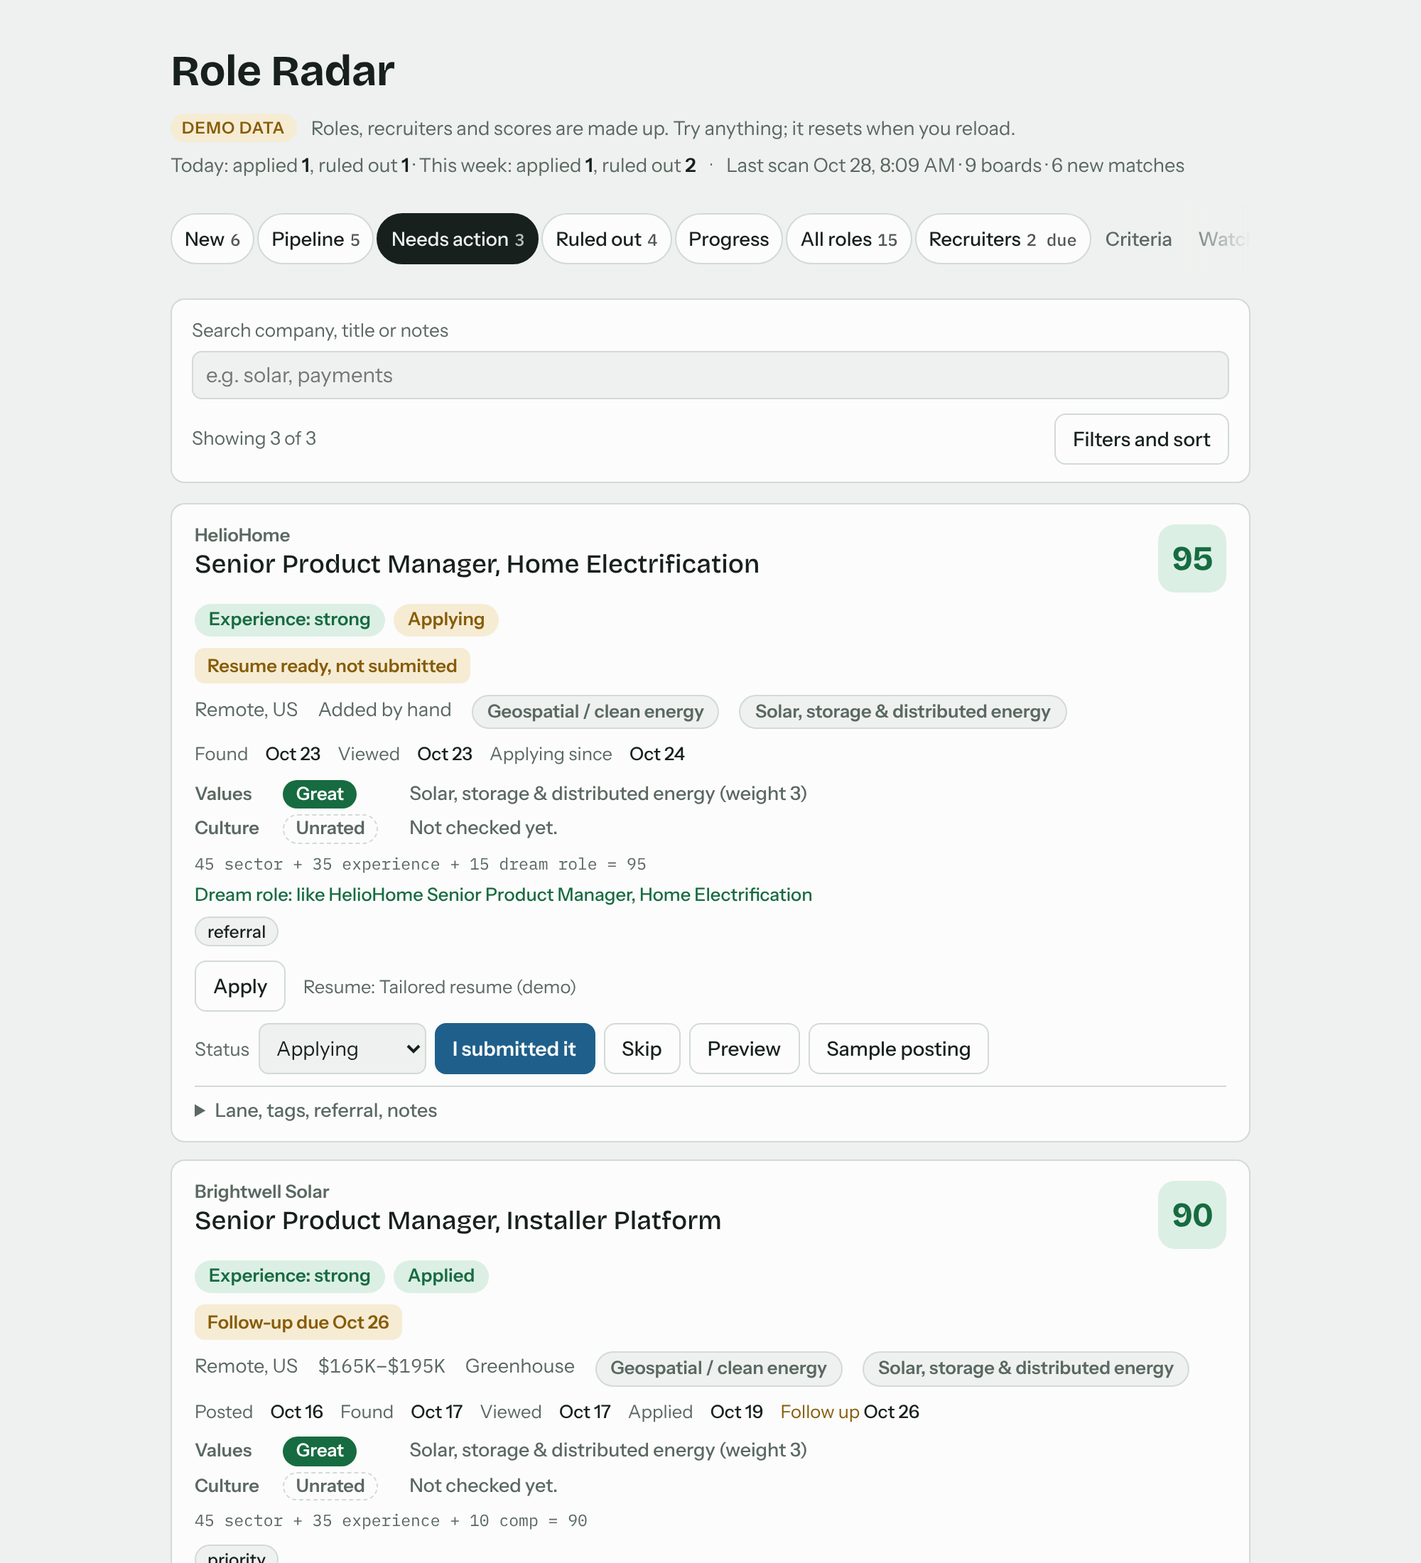
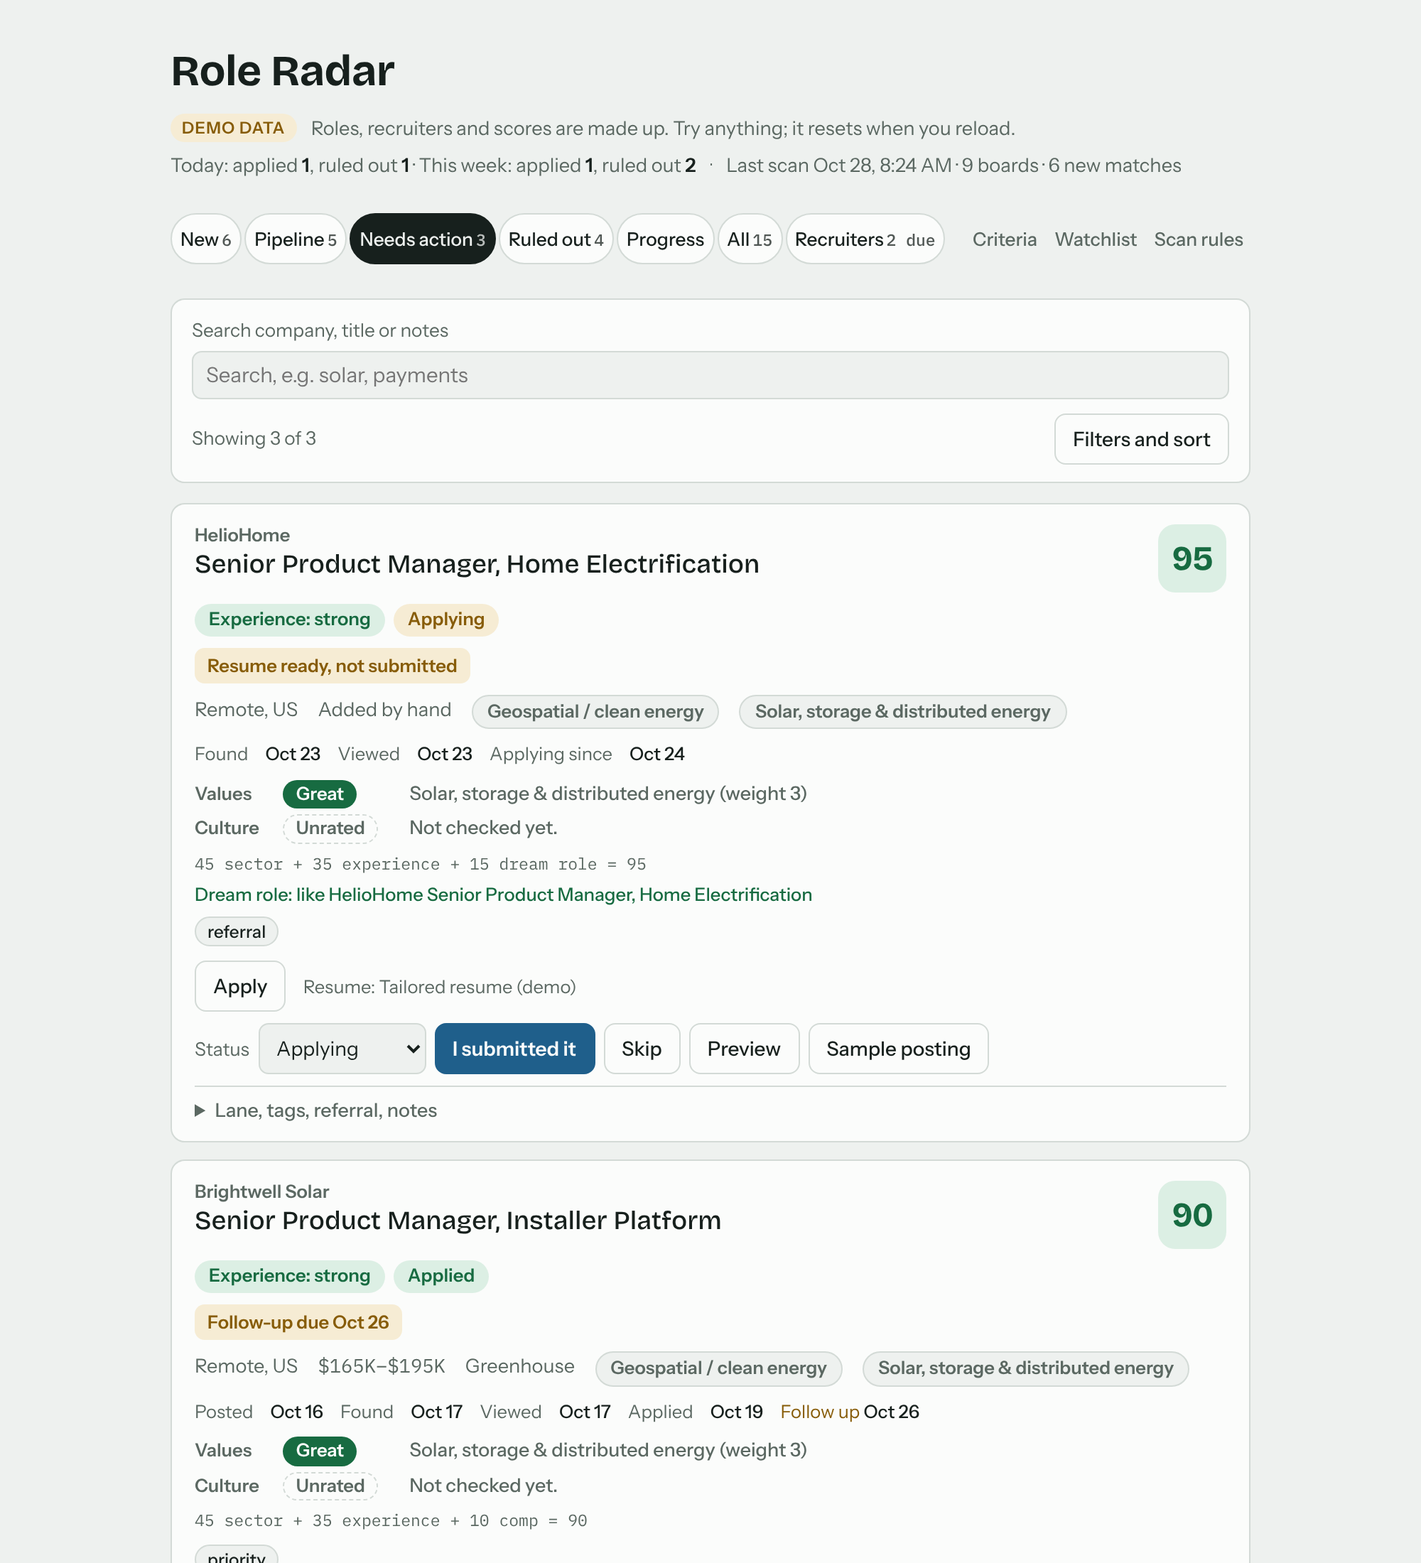
UI round RR-UX7: private tabs fit, phone hero shorter, Pipeline row on one line, digest 'Top N of M'
Red first (RR-UX7-0..3 in tests/ui-polish.test.mjs), 290 tests green 3x.

Claude-Session: https://claude.ai/code/session_01S2xZTupe2qe2vZrkJ8z2XQ

diff --git a/app/role-radar.html b/app/role-radar.html
@@ -40,11 +40,12 @@ h1{font-family:var(--f-display);font-weight:700;font-size:1.9rem;letter-spacing:
 #tabs button[aria-selected="true"]{background:var(--ink);color:var(--bg);border-color:var(--ink)}
 #tabs .n{font-family:var(--f-mono);font-size:.78rem;opacity:.75}
 /* Wide screens: every tab fits in one row with no sideways scroll (RR-UX6-1). Settings sit as a quieter group on the right. */
-@media (min-width:900px){#tabs{gap:2px}#tabs button{padding:0 9px;font-size:.85rem;gap:4px}#tabs .n{font-size:.74rem}
-  #tabs button.set{background:none;border-color:transparent;color:var(--muted);padding:0 7px}
+@media (min-width:900px){#tabs{gap:2px}#tabs button{padding:0 6px;font-size:.82rem;gap:2px}#tabs .n{font-size:.72rem}
+  #tabs button.set{background:none;border-color:transparent;color:var(--muted);padding:0 4px}
   #tabs button.set:hover{color:var(--ink);border-color:var(--line)}
   #tabs button.set[aria-selected="true"]{background:var(--ink);color:var(--bg);border-color:var(--ink)}
-  #tabs button.set1{margin-left:auto}}
+  #tabs button.set1{margin-left:auto}
+  #tab-watch .n{display:none} /* RR-UX7-0: the settings group stays a quiet label row so every tab fits at 900+; the Watchlist page shows its count */}
 button:focus-visible,input:focus-visible,select:focus-visible,textarea:focus-visible,a:focus-visible{outline:2px solid var(--accent);outline-offset:2px}
 .list{display:grid;gap:12px}
 .job{background:var(--surface);border:1px solid var(--line);border-radius:10px;padding:14px 16px;display:grid;gap:8px;min-width:0}
@@ -121,12 +122,19 @@ dialog .row2{display:flex;gap:8px;justify-content:flex-end;margin-top:10px;flex-
 /* On phones the tab bar scrolls away instead of covering a fifth of the screen. */
 @media (max-width:600px){#tabs{position:static;gap:6px;scroll-snap-type:x proximity;padding:6px 16px;margin-inline:-16px;scroll-padding-inline:16px}}
 /* Phones: a shorter header so the first role title lands on the first screen. */
-@media (max-width:600px){h1{font-size:1.6rem}.wrap{padding-top:12px;gap:12px}header{gap:4px}.lede{font-size:.95rem}}
+@media (max-width:600px){h1{font-size:1.6rem}.wrap{padding-top:12px;gap:12px}header{gap:4px}.lede{font-size:.95rem}
+  /* RR-UX7-1: on a phone the demo note runs inline and the filter bar is one search box plus its toggle, so the first role starts higher. */
+  header .hrow:has(#demoNote:not([hidden])){display:block}header .hrow #demoNote{display:inline-block;margin-right:8px}header .hrow #demoTry{display:inline}
+  .fbar{padding:8px 12px;gap:6px}.fbar .qlbl{position:absolute;width:1px;height:1px;overflow:hidden;clip:rect(0 0 0 0);white-space:nowrap}}
 /* Filters fold behind one button at every width, so the first role is never pushed below the fold (RR-UX4-1). */
 #ftoggle{display:inline-flex}.fbar:not(.open) .fields{display:none}
 /* Touch: every control at least 44px tall. */
 @media (max-width:600px), (pointer:coarse){#tabs button,.btn,button,select,input:not([type=checkbox]):not([type=radio]){min-height:44px}a.btn{display:inline-flex;align-items:center}summary{padding-block:14px}.kv a{display:inline-flex;align-items:center;min-height:44px}.sub .linkbtn,.hint .linkbtn{min-height:44px;display:inline-block;padding-block:12px;margin-block:-12px;line-height:20px;vertical-align:baseline}}
 .fbar .foot{display:flex;justify-content:space-between;align-items:center;gap:10px;flex-wrap:wrap;font-size:.82rem;color:var(--muted)}
+/* Phones (RR-UX7-1): search and the filter toggle share one row; the count shows only once a filter or search hides roles. */
+@media (max-width:600px){.fbar{grid-template-columns:minmax(0,1fr) auto;align-items:center}.fbar>label[for=q]{grid-column:1;grid-row:1}.fbar .foot{display:contents}
+  #ftoggle{grid-column:2;grid-row:1}.fbar .fields{grid-column:1/-1}#fcount{grid-column:1}#fclear{grid-column:2;justify-self:end}
+  #fcount[data-all]{position:absolute;width:1px;height:1px;overflow:hidden;clip:rect(0 0 0 0);white-space:nowrap}}
 .linkbtn{font:500 .82rem var(--f-body);background:none;border:0;color:var(--accent);cursor:pointer;padding:0}
 .dates{display:flex;flex-wrap:wrap;gap:2px 12px;font-size:.8rem;color:var(--muted)}
 .dates b{font-weight:500;color:var(--ink)}
@@ -136,7 +144,7 @@ dialog .row2{display:flex;gap:8px;justify-content:flex-end;margin-top:10px;flex-
 .tag{font:500 .76rem var(--f-body);padding:2px 8px;border-radius:999px;background:var(--bg);border:1px solid var(--line);color:var(--ink)}
 .tags{display:flex;flex-wrap:wrap;gap:4px}
 .why{font:600 .8rem var(--f-body);color:var(--warn);background:var(--warn-soft);border-radius:7px;padding:5px 9px;justify-self:start}
-.ctl{display:flex;flex-wrap:wrap;gap:6px;align-items:center}
+.ctl{display:flex;flex-wrap:wrap;gap:6px;align-items:center}.ctl .acts{display:contents}
 .ctl select{padding:0 8px;min-height:36px;font-size:.875rem}
 @media (max-width:600px), (pointer:coarse){.ctl select,.primary{min-height:44px}}
 .skipwhy{display:flex;flex-wrap:wrap;gap:6px;align-items:center;font-size:.82rem;color:var(--muted)}
@@ -241,7 +249,9 @@ details.more form{display:grid;gap:10px;padding-top:10px}
 @media (max-width:600px){.whybtn{display:inline-flex;align-items:center;gap:4px;min-height:44px;margin-block:-12px}.whybtn::after{content:"\25BE";font-size:.8em}.whybtn[aria-expanded="true"]::after{content:"\25B4"}
   .whybox:not(.open){display:none}.ctl .wide-only{display:none}
   /* One row of actions: status picker takes the spare width, its visible "Status" word stays for screen readers. */
-  .ctl label.sr{flex:1 1 96px;min-width:0}.ctl label.sr select{width:100%;min-width:0}.ctl>.btn{flex:none;padding-inline:12px}
+  .ctl label.sr{flex:1 1 96px;min-width:0}.ctl label.sr select{width:100%;min-width:0}.ctl>.btn,.ctl .acts>.btn{flex:none;padding-inline:12px}
+  /* The card's actions wrap as one group under Status, never one by one (RR-UX7-2). */
+  .ctl .acts{display:flex;flex:none;flex-wrap:nowrap;gap:6px;max-width:100%}
   .ctl .stl{position:absolute;width:1px;height:1px;overflow:hidden;clip:rect(0 0 0 0);white-space:nowrap}}
 .why-score span{white-space:nowrap}
 .dream-note{font:500 .8rem var(--f-body);color:var(--good);margin:0}
@@ -302,6 +312,8 @@ details.more form{display:grid;gap:10px;padding-top:10px}
   #preview{inset:0;padding:env(safe-area-inset-top,0px) env(safe-area-inset-right,0px) env(safe-area-inset-bottom,0px) env(safe-area-inset-left,0px)}
   body.previewing{overflow:hidden}
 }
+/* RR-UX7-1: phones get tighter spacing above the first role (these follow the base rules they override). */
+@media (max-width:600px){.main{gap:10px}.fbar{margin-bottom:8px}#digestCard{margin-bottom:8px}.lede{line-height:1.45}}
 </style>
 
 <div class="wrap">
@@ -345,7 +357,7 @@ details.more form{display:grid;gap:10px;padding-top:10px}
 const TOOLS=!window.__RR_PUBLIC__;
 const TABS=[
   {id:"inbox",label:"New"},{id:"pipeline",label:"Pipeline"},{id:"action",label:"Needs action"},{id:"ruled",label:"Ruled out"},{id:"progress",label:"Progress"},
-  {id:"all",label:"All roles"},...(TOOLS?[{id:"people",label:"Recruiters"}]:[]),{id:"criteria",label:"Criteria"},{id:"watch",label:"Watchlist"},{id:"filters",label:"Scan rules"}];
+  {id:"all",label:"All"},...(TOOLS?[{id:"people",label:"Recruiters"}]:[]),{id:"criteria",label:"Criteria"},{id:"watch",label:"Watchlist"},{id:"filters",label:"Scan rules"}];
 const STATUSES=[["new","New"],["viewed","Viewed"],["saved","Saved"],["applying","Applying"],["applied","Applied"],["screen","Screen"],["interviewing","Interviewing"],["offer","Offer"],["skipped","Skipped"],["rejected","Rejected"],["closed","Closed"]];
 const STATUS_LABEL=Object.fromEntries(STATUSES);
 const INBOX=["new","viewed"], PIPE=["saved","applying","applied","screen","interviewing","offer"], DONE=["skipped","rejected","closed"];
@@ -499,7 +511,7 @@ function renderScan(){
   sw.textContent=stale?`Scan hasn't run since ${fmtDate(scan.lastRun)}. New roles may be missing; check the scheduled scan.`:""; sw.hidden=!stale;
   if(!scan){ $("#scanLine").textContent="Remote Senior and Staff PM roles from company boards, ZipRecruiter, Himalayas and job alerts, checked every weekday morning. No scan has run yet."; return;}
   const when=scan.lastRun?new Date(scan.lastRun).toLocaleString(undefined,{month:"short",day:"numeric",hour:"numeric",minute:"2-digit"}):"";
-  $("#scanLine").innerHTML=`Last scan ${esc(when)} · ${esc(scan.boardsChecked??"?")} boards · ${esc(scan.newMatches??0)} new matches${scan.note?` · ${esc(scan.note)}`:""}`;
+  $("#scanLine").innerHTML=`Last scan ${esc(when)} · ${esc(scan.boardsChecked??"?")} boards${jobsState==="error"?"":` · ${esc(scan.newMatches??0)} new matches`}${scan.note?` · ${esc(scan.note)}`:""}`;
   $("#scanLine").title=$("#scanLine").textContent; // full text when the laptop meta row trims it
 }
 
@@ -601,12 +613,12 @@ function jobCard(j){
     <div class="ctl">
       <label class="sr" style="display:flex;gap:6px;align-items:center"><span class="stl">Status</span>
         <select id="st-${id}" data-setstatus="${id}">${stOpts}</select></label>
-      ${INBOX.includes(s)?`<button class="${btn("save")}" type="button" data-quick="saved" data-job="${id}">Save</button>`:""}
+      <span class="acts">${INBOX.includes(s)?`<button class="${btn("save")}" type="button" data-quick="saved" data-job="${id}">Save</button>`:""}
       ${s==="applying"?`<button class="${btn("applied")}" type="button" data-quick="applied" data-job="${id}">I submitted it</button>`:""}
       ${fupDue?`<button class="${btn("fup")}" type="button" data-fupsent="${id}">Follow-up sent</button>`:""}
       ${!DONE.includes(s)?`<button class="btn" type="button" data-quick="skipped" data-job="${id}">Skip</button>`:""}
       <button class="btn" type="button" data-preview="${id}" aria-expanded="${preview===j._id}">Preview</button>
-      ${url?`<a class="btn wide-only" href="${esc(url)}" target="_blank" rel="noopener" style="text-decoration:none" data-view="${id}">Open posting</a>`:sample?`<button class="btn wide-only" type="button" data-sample="${id}">Sample posting</button>`:""}
+      ${url?`<a class="btn wide-only" href="${esc(url)}" target="_blank" rel="noopener" style="text-decoration:none" data-view="${id}">Open posting</a>`:sample?`<button class="btn wide-only" type="button" data-sample="${id}">Sample posting</button>`:""}</span>
     </div>
     ${skipRow}
     <details class="more" data-more="${id}"${openMore.has(j._id)?" open":""}>
@@ -650,7 +662,7 @@ function filterBar(){
   const active=["q","status","lane","fit","values","culture","source","tag","found","conflict"].filter(k=>view[k]).length;
   const nf=active-(view.q?1:0);
   return `<form class="fbar${filtersOpen?" open":""}" id="fbar">
-    <label for="q">Search company, title or notes<input id="q" class="search" value="${esc(view.q)}" placeholder="e.g. solar, payments"></label>
+    <label for="q"><span class="qlbl">Search company, title or notes</span><input id="q" class="search" value="${esc(view.q)}" placeholder="Search, e.g. solar, payments"></label>
     <div class="fields">
       <label for="fv-status">Status<select id="fv-status" data-v="status">${opts(statusList,view.status,"Any")}</select></label>
       <label for="fv-lane">Lane<select id="fv-lane" data-v="lane">${opts(LANES.map(l=>[l,l]),view.lane,"Any")}</select></label>
@@ -710,9 +722,11 @@ function digestCard(){
   const d=digestOf(specData); if(!d) return "";
   const open=digestOpen??(typeof matchMedia==="function"&&matchMedia("(min-width:900px)").matches);
   const n=d.items.length;
+  // "Top N of M new" with M the header's new-match count, so the digest and the header tell one story (RR-UX7-3).
+  const of=Number(scan&&scan.newMatches)||jobs.filter(j=>inTab(j,"inbox")).length;
   const body=n?`<ol class="dig">${d.items.map(x=>{const a=roleAnchor(x.job._id); return `<li><a href="#${a}" data-role="${a}" title="${esc(x.job.company)} · ${esc(x.job.title)}"><span class="score${x.result.score>=70?" hi":""}">${esc(x.result.score)}</span><span class="t"><b>${esc(x.job.company)}</b> · ${esc(x.job.title)}</span></a></li>`;}).join("")}</ol>`
     :`<p class="hint">Nothing in New clears the minimum score yet.</p>`;
-  return `<details class="ccard" id="digestCard"${open?" open":""}><summary><h2>This morning's digest</h2><span class="hint">${n===1?"Top pick":`Top ${n} picks`}</span></summary>${body}</details>`;
+  return `<details class="ccard" id="digestCard"${open?" open":""}><summary><h2>This morning's digest</h2><span class="hint">${of>n?`Top ${n} of ${of} new`:n===1?"Top pick":`Top ${n} picks`}</span></summary>${body}</details>`;
 }
 function renderJobs(){
   const base=jobs.filter(j=>inTab(j,tab));
@@ -1210,7 +1224,7 @@ function render(){
   const fa=document.activeElement, keep=fa&&fa.closest&&fa.closest("#view .list article.job")?fa:null;
   const r=renderJobs(); v.innerHTML=r.html; if(r.shown) { const l=v.querySelector(".list"); l.classList.toggle("long",r.shown>=200); l.replaceChildren(...cardEls(r.list)); }
   if(keep&&keep.isConnected&&document.activeElement!==keep) keep.focus({preventScroll:true});
-  const c=$("#fcount"); if(c) c.textContent=r.total?`Showing ${r.shown} of ${r.total}`:"";
+  const c=$("#fcount"); if(c){ c.textContent=r.total?`Showing ${r.shown} of ${r.total}`:""; c.toggleAttribute("data-all",r.shown===r.total); }
 }
 // Skip a full redraw while someone is typing in a form, so edits aren't lost.
 function softRender(){ const a=document.activeElement; if(a&&a.closest&&a.closest("form")&&a.closest("form").id!=="fbar"){renderTabs();return;} render(); }

diff --git a/HANDOFF.md b/HANDOFF.md
@@ -108,7 +108,7 @@ _Updated 2026-10-24._
 - RR-M3.3 UI to 8/10 (`claude/project-thread-6wmh2k-m3-3`, stacked on M3.2), round 1: ux-reviewer 5/10 before (390: 4.5, 1280: 5.5), 6.5/10 after. `tests/ui-polish.test.mjs` RR-UX3-1..7, red first: score is a 48px tile top-right; phone tabs are one scrolling row (still not sticky) so the first card is above the fold; full-width phone titles; one filled primary action per card (`.btn.cta`); aligned Values/Culture rows; accent links; 16px body and one sentence-case label style. README screenshots regenerated. 236 tests, green 3x. Round 2: RR-UX4-1..8 red first, then fixed: filters fold behind the toggle at every width (supersedes the old "wide screen shows filters" test, rewritten to the new rule), 44px Pipeline section rows, phone fit reasons on their own line, at most one accent action per card, "Start from the example" primary on an empty editor, "Open Criteria" on a first-run New tab, compact score math, a solid error card with a filled Reload. 244 tests, green 3x. Screenshots regenerated. ux-reviewer after round 2: 7.0/10 (390 and 1280); next gap is the laptop first screen (tabs wrap to 2 rows, 3-4 grey header lines).
 - RR-M3.4 harden (`claude/project-thread-6wmh2k-m3-4`, stacked on M3.3): new `.github/workflows/ci.yml` runs the personal-data check, `npm test` (unit + browser tests in Chromium) and the demo build on every PR and push to main; `pages.yml` now deploys only after `ci` succeeds on a push to main (`workflow_run`), with Pages write permissions on the deploy job only; `.github/dependabot.yml` (npm + actions, weekly, grouped); README CI badge. qa-tdd sweep mapped every core flow to tests and added `tests/hardening-4.test.mjs` (RR-H-11..28) and `tests/ci-config.test.mjs`: 11 real bugs, all fixed (Save details now redraws, long strings no longer widen the page, blank inputs refused with a message, "Untitled role", unknown statuses shown honestly, YAML lists refused, null Gmail messages skipped, 2,000 roles: All tab 6.6s -> 0.7s, search 7.7s -> 0.2s). privacy-security: safe to ship, no P0/P1. 265 tests, green 3x. First CI run caught a timing flake in the skip-form focus check (read focus the same tick as the click); the test now waits for focus.
 - RR-M3.5 enhancements (`claude/project-thread-6wmh2k-m3-5`, stacked on M3.4), picked for recruiter impact: (1) "This morning's digest" card at the top of New (what the scan would send, from a shared `digestOf()` that the Criteria preview also uses; open at 900px+, collapsed on phones; entries jump to the role). (2) Deep links: `?tab=<id>` (hidden tabs never open from a link), tab clicks keep the URL in sync, `#role-<id>` focuses a role card. `tests/enhancements.test.mjs` RR-M3.5-1..14, red first. 279 tests, green 3x. CI caught RR-H-21 at 502ms (limit 500): the digest card re-ranked all New roles on every search keystroke; `digestOf()` now caches while jobs and criteria are unchanged (keystroke 258-392ms -> 144-196ms locally).
-- RR-M3.6 final UI round + demo check (`claude/project-thread-6wmh2k-m3-6`, stacked on M3.5): RR-UX5-1 tabs are one tighter row (scrolls sideways with an edge fade and arrow/Home/End keys when they don't fit), RR-UX5-2 header meta on two lines so the first role is above the fold at 1280x800 with the digest open, RR-UX5-3 no Apply on applied-or-later roles, RR-UX5-5 buttons never wrap. Red first in `tests/ui-polish.test.mjs`. 283 tests, green 3x. ux-reviewer then 7.3/10. Round RR-UX6: at 900px+ Criteria, Watchlist and Scan rules sit as a quieter group on the right so every public tab fits (the private build, with Recruiters, still scrolls slightly); on phones Values/Culture and the score math sit behind a "Why <score>?" button and Sample posting is desktop-only, so New cards are under 460px; digest says "Top 5 picks"; the filter bar hides on empty tabs. 286 tests, green 3x.
+- RR-M3.6 final UI round + demo check (`claude/project-thread-6wmh2k-m3-6`, stacked on M3.5): RR-UX5-1 tabs are one tighter row (scrolls sideways with an edge fade and arrow/Home/End keys when they don't fit), RR-UX5-2 header meta on two lines so the first role is above the fold at 1280x800 with the digest open, RR-UX5-3 no Apply on applied-or-later roles, RR-UX5-5 buttons never wrap. Red first in `tests/ui-polish.test.mjs`. 283 tests, green 3x. ux-reviewer then 7.3/10. Round RR-UX6: at 900px+ Criteria, Watchlist and Scan rules sit as a quieter group on the right so every public tab fits (the private build, with Recruiters, still scrolls slightly); on phones Values/Culture and the score math sit behind a "Why <score>?" button and Sample posting is desktop-only, so New cards are under 460px; digest says "Top 5 picks"; the filter bar hides on empty tabs. 286 tests, green 3x. Round RR-UX7: private-build tabs fit at 900px+ (tighter tabs, "All roles" now "All", Watchlist count hidden at 900px+); on phones the first New title starts above 560px (inline demo chip, one-row search plus Filters, "Showing X of Y" only when filtered); Pipeline buttons move as one group instead of Preview wrapping alone; digest reads "Top N of M new" and the header drops the new-match count when jobs fail to load. 290 tests, green 3x.
 - Night shift 2026-10-23 (hardening), draft PR #31: done and marked ready. Round 3 review found nothing at P2 or above (one P2 leftover also fixed: dates and pay inside sentences now use the body font). 127 tests, green 3x.
 - Power hour (Chase, 2026-10-22): PRs #20-#25 (recruiter-ready) and #16 (dream-role anchors, 93/93 tests on the merge) are merged to main. PR #18 (job description preview) merged 2026-10-23 after bringing main in; live page republished with `posting.js` the same day.
 - Public demo: merged (PR #17), repo renamed to `role-radar`, redeployed, Pages green after #25. Waiting on a phone check of the live URL and https, and on the portfolio repoint (intake with Chase).
@@ -136,6 +136,7 @@ _Updated 2026-10-24._
 - The live page is `app/role-radar.html` published with `src/scoring.js`, `src/gmail-import.js`, `src/posting.js`, `src/alerts.js`, `src/progress.js`, `src/skip-feedback.js` and (from RR-M2.4) `src/recruiter-store.js` as supporting files of the same names, and `capabilities` = `app/capabilities.json` (never `{db: {}}`, which drops the owner-only rule).
 
 ## Decisions to review
+- RR-UX7: the "All roles" tab reads "All", the Watchlist count is hidden at 900px+, and the digest says "Top N of M new" (M = the scan's new-match count). With bigger real counts (for example "Recruiters 12 due"), the private tab bar can still overflow and falls back to the sideways scroll. On phones the first title clears the 560px line by about 5px.
 - RR-M3.4: cards are reused between redraws while their data hasn't changed, and lists of 200+ cards skip off-screen layout (`content-visibility:auto`); no paging. Actions are pinned by tag, not SHA (RR-PS-2, P2); CI runs the privacy check without the private denylist (RR-PS-3, P2: keep running it locally, or add the denylist as a secret for push-to-main runs).
 - RR-UX4-1: filters now fold behind the Filters button on desktop too (they pushed the first role below the fold). Reversible in one CSS line.
 - RR-M3.2: adding a company that's already on the watchlist is refused too (saving it again would reset its board health). The embedded example criteria make the page ~220 lines longer.
